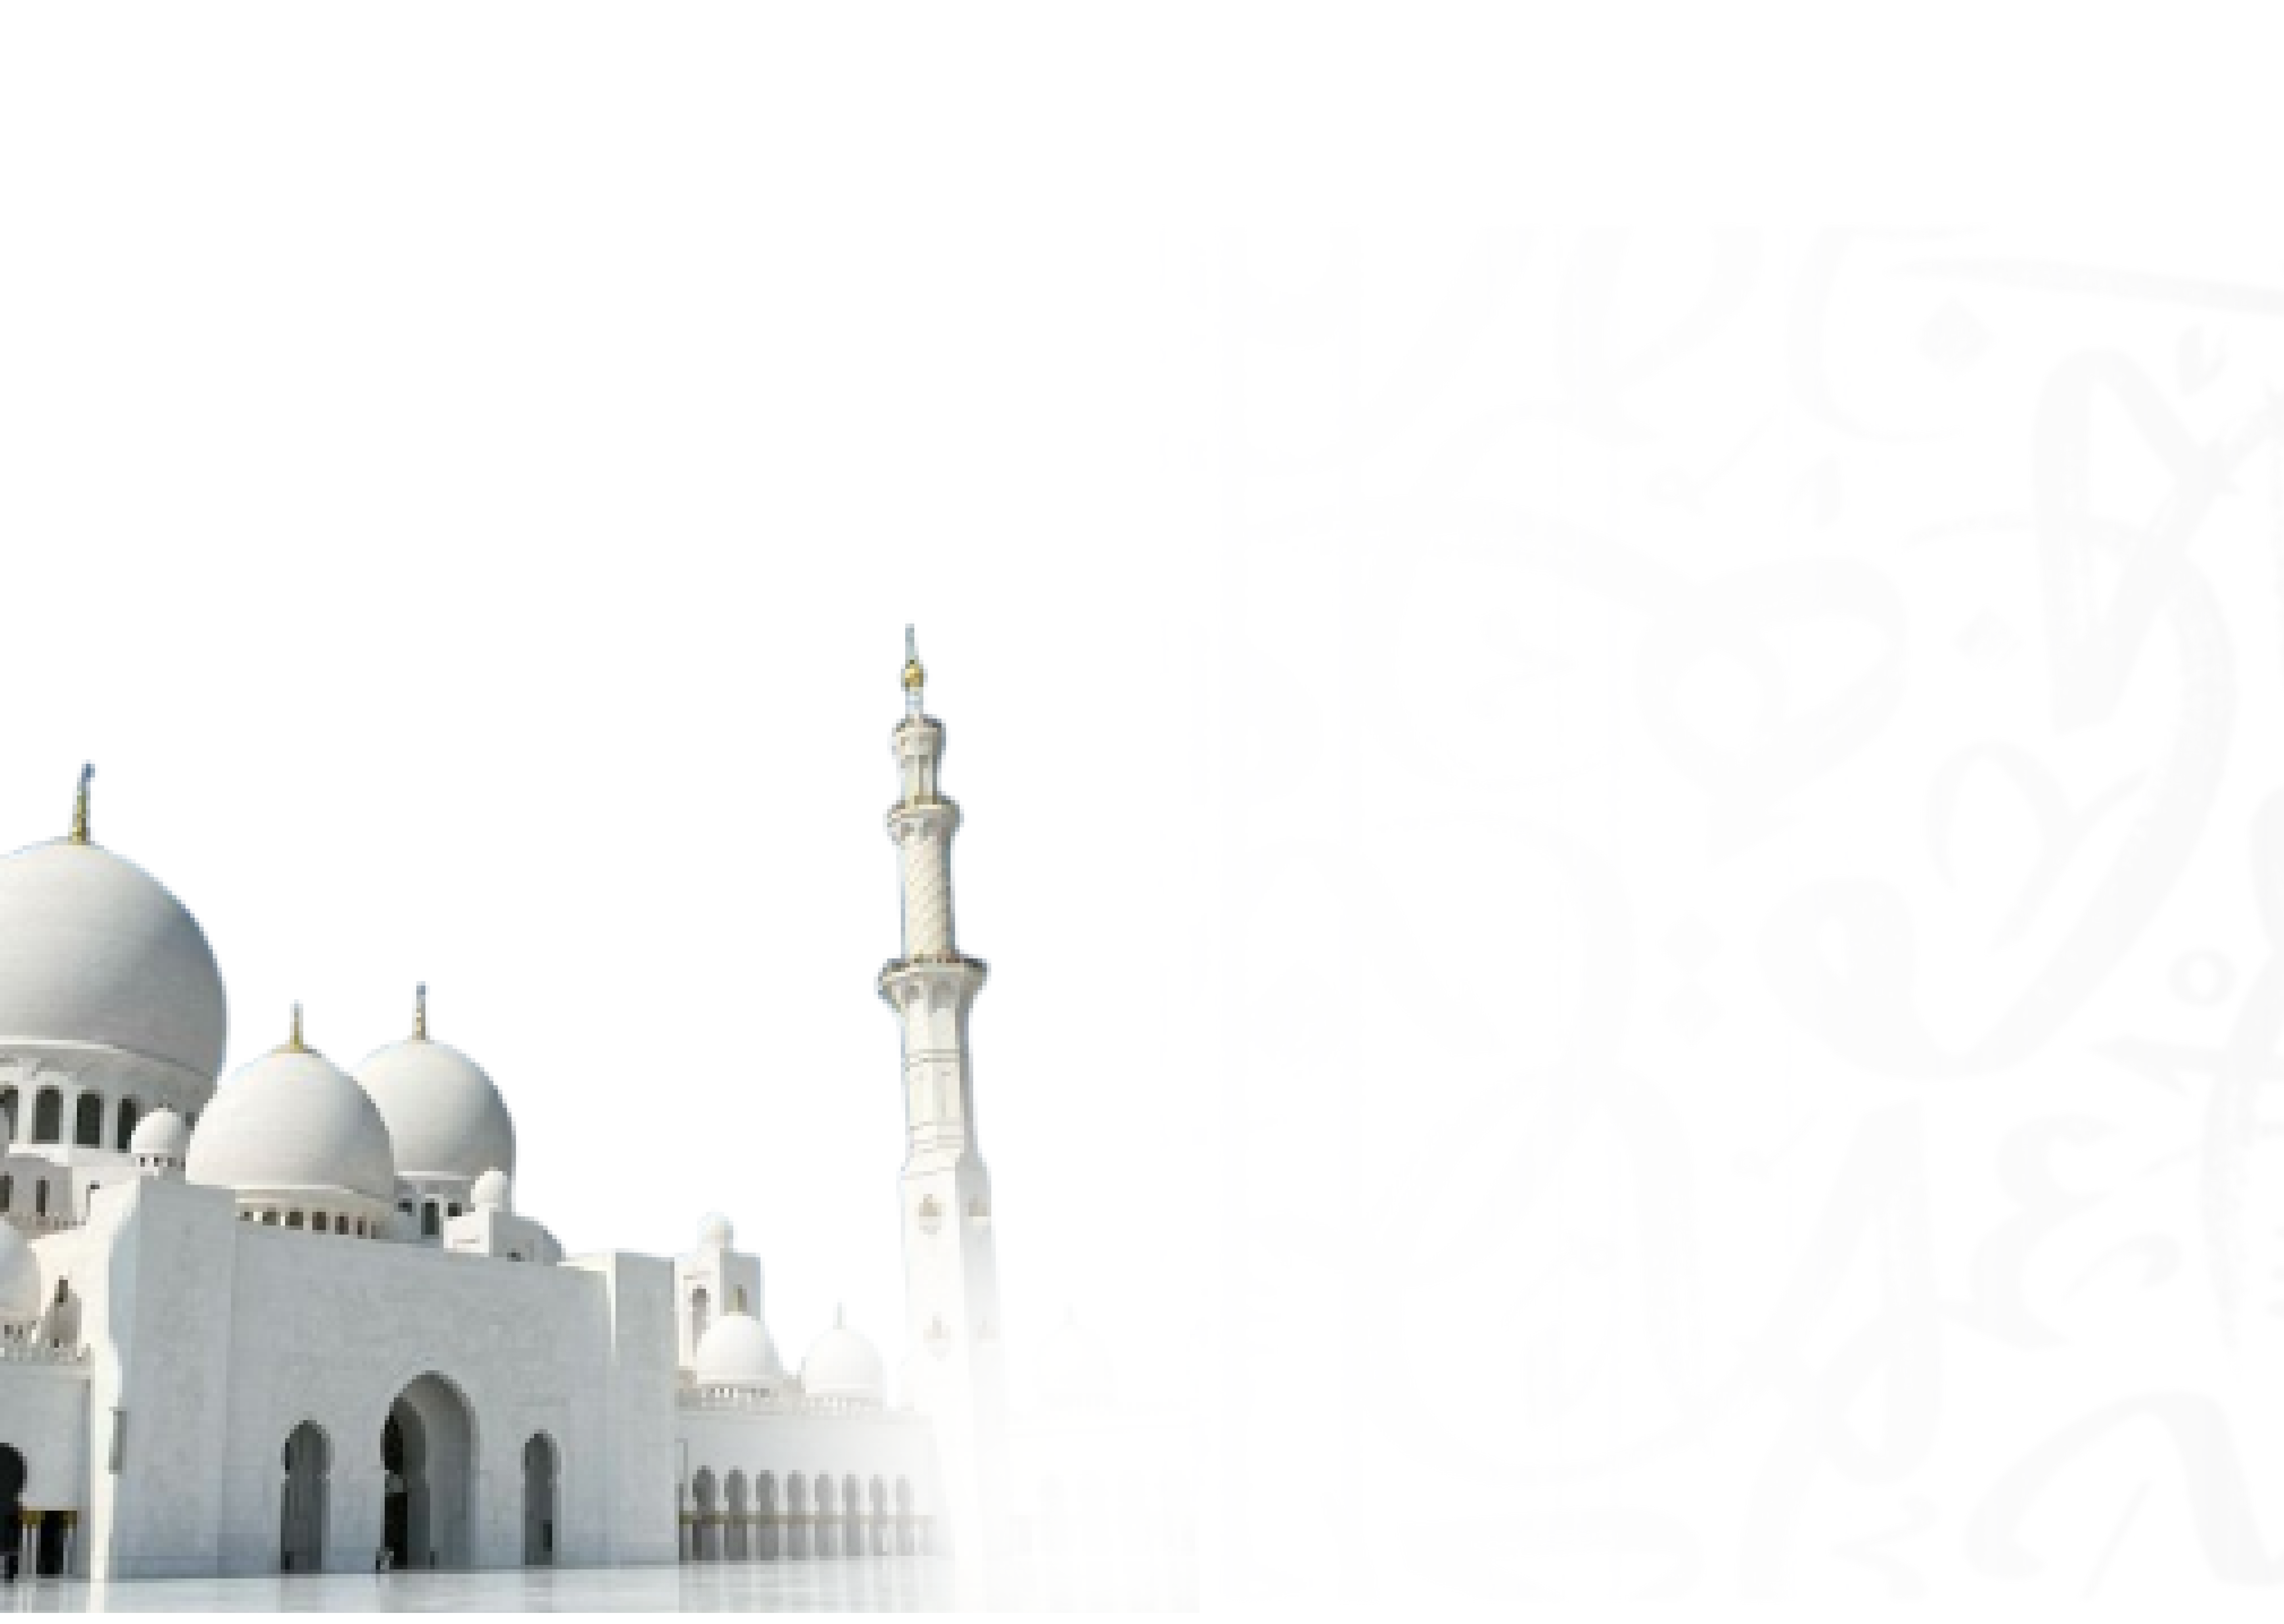
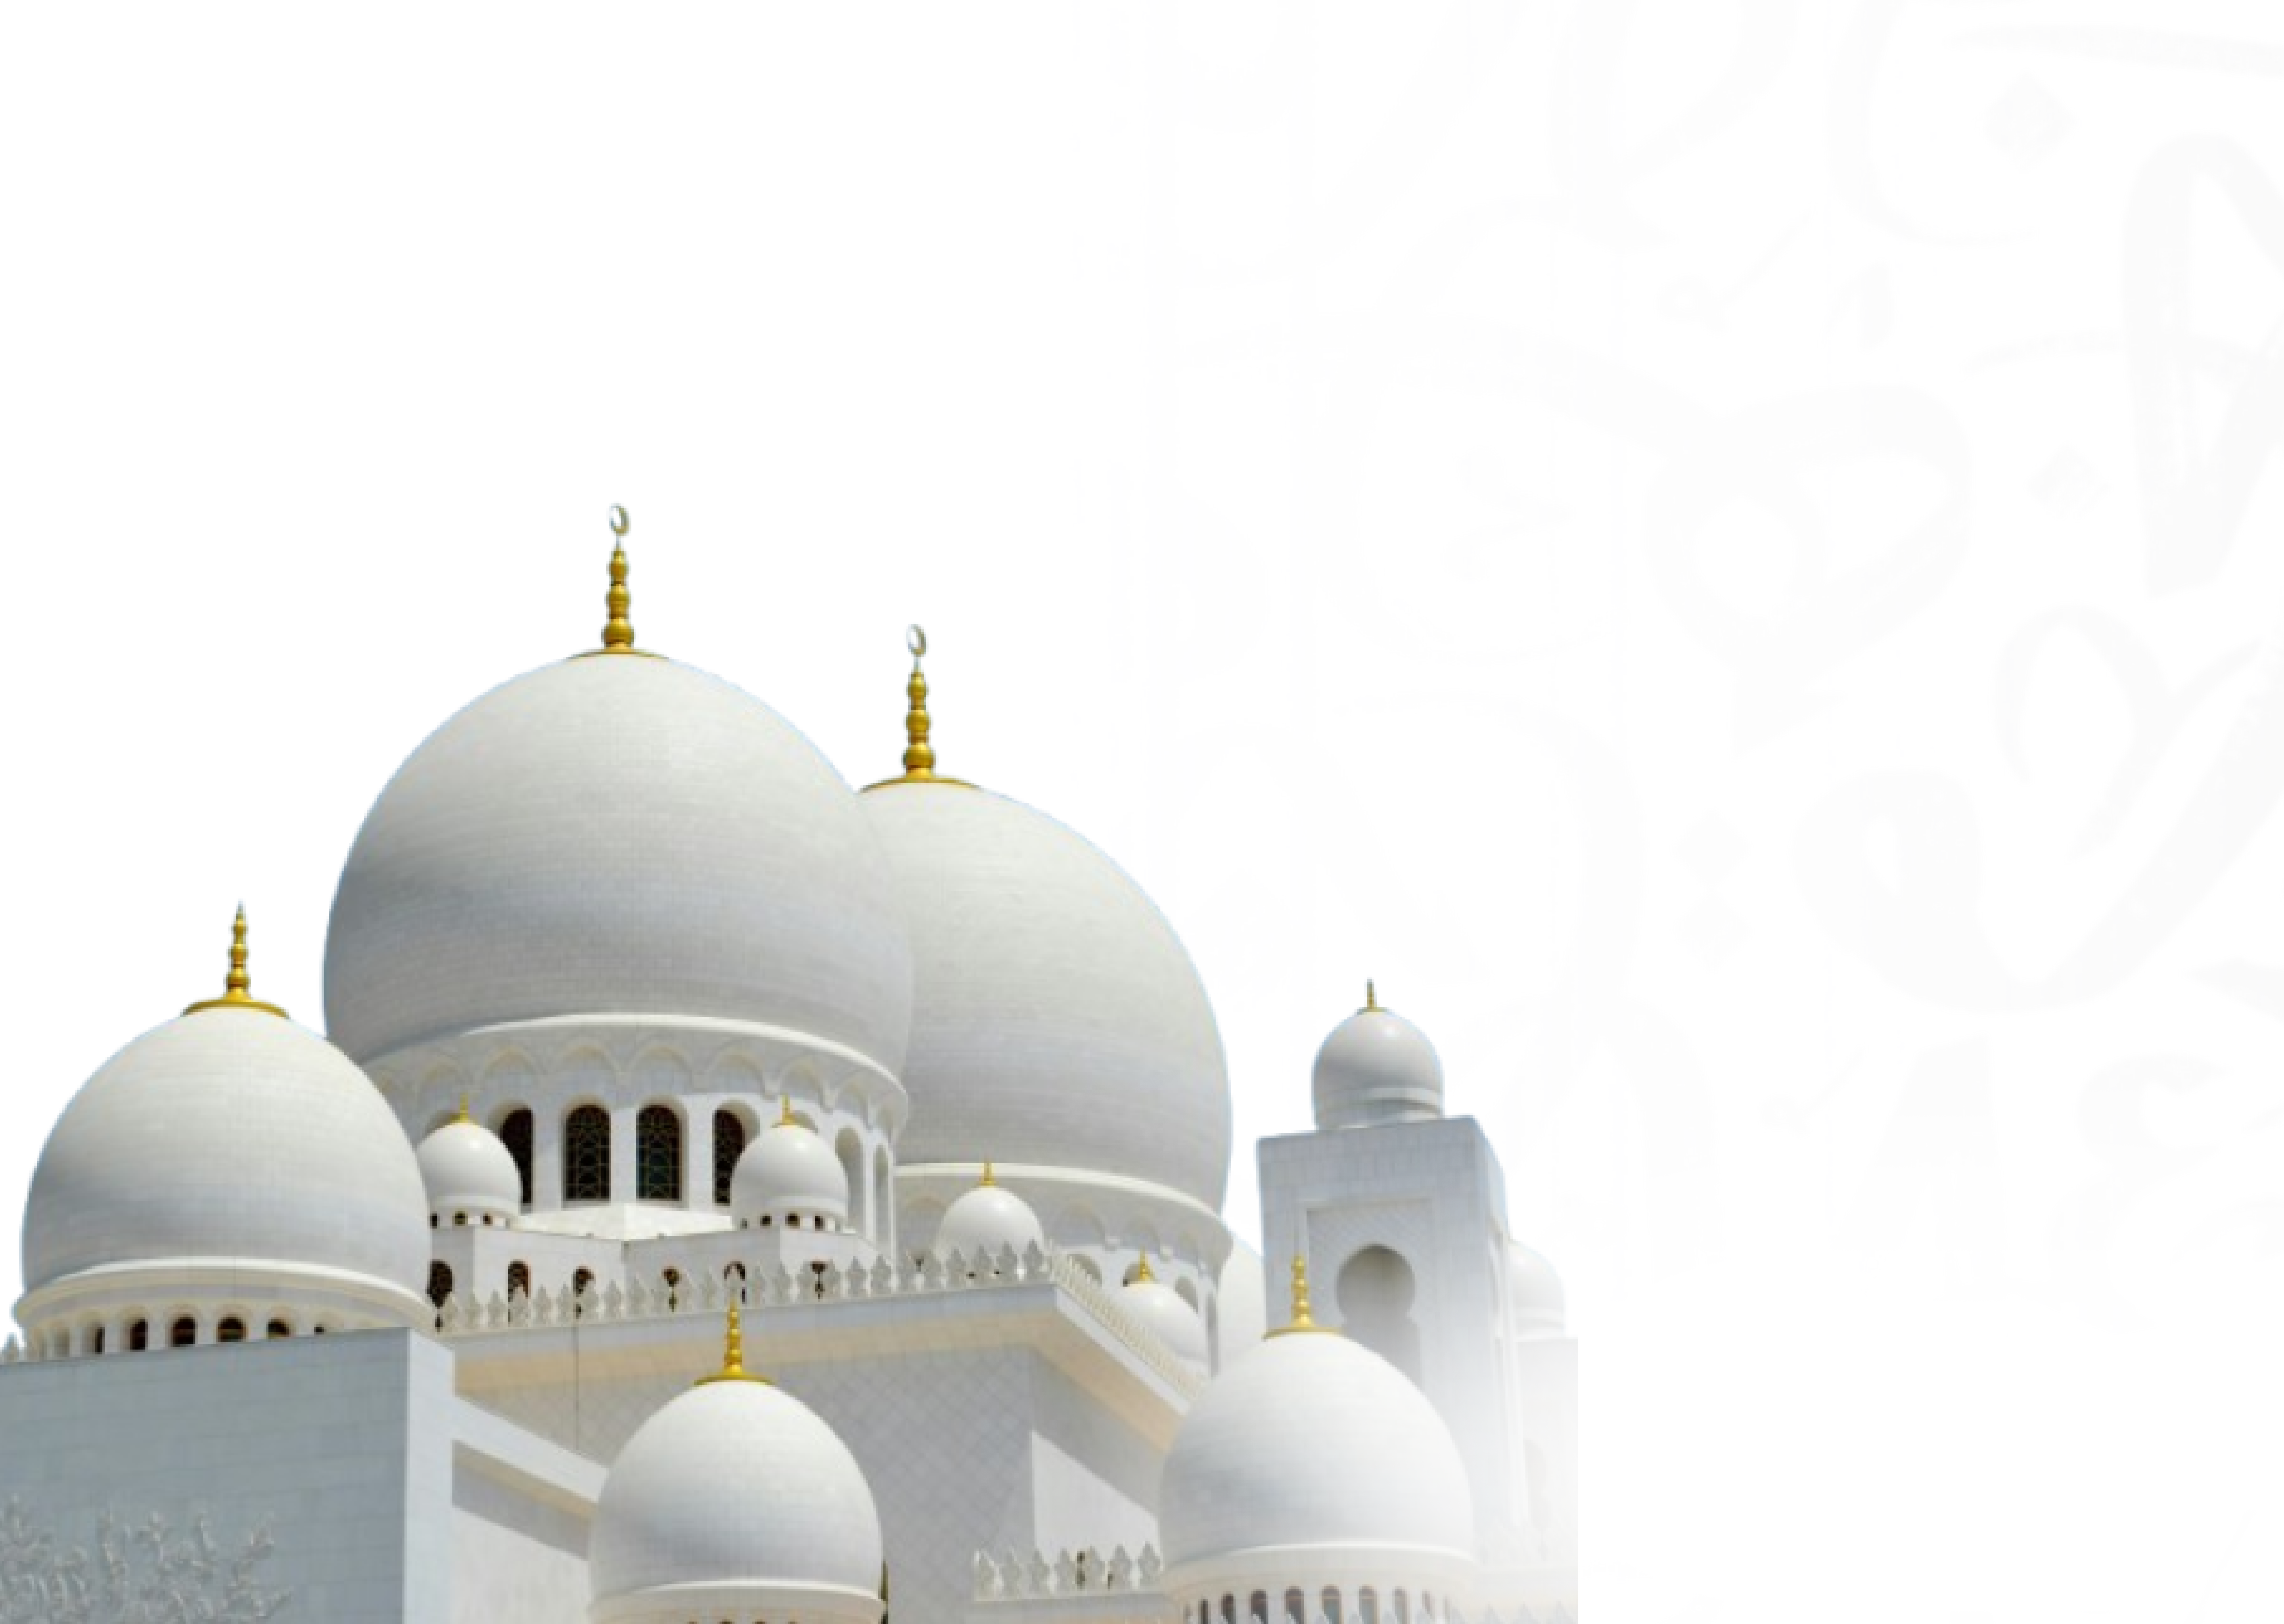
add another background

Changed region(s): [[0.0, 0.3125, 0.6875, 1.0]]

diff --git a/src/css/herosection.css b/src/css/herosection.css
@@ -1,6 +1,6 @@
 .hero {
     width: 100%;
-    height: 80vh;
+    height: 100vh;
     margin: 0 auto;
     display: flex;
     justify-content: flex-start;
@@ -11,14 +11,17 @@
     background-repeat: no-repeat;
     text-align: right;
     direction: rtl;
-    padding: 0 2rem;
+    padding: 0 5.5rem;
     font-family: 'Lama Sans', sans-serif;
+    image-rendering: crisp-edges;
 }
 .hero-section h2 {
     color: #0C8F5C;
+     font-size: 2.5rem;
 }
 .hero-section p{
      color: #000000;
+     font-size: 1.5rem;
 }
 .explore-btn {
     background-color: #0C8F5C;
@@ -26,10 +29,10 @@
     padding: 10px 20px;
     border: none;
     border-radius: 6px;
-    font-size: 1rem;
+    font-size: 1.25rem;
     cursor: pointer;
     margin-top: 20px;
-    clip-path: polygon(20px 0%, 100% 0%, 100% 100%, 0% 100%, 0% 30px);
+    clip-path: polygon(20px 0%, 100% 0%, 100% 100%, 0% 100%, 0% 35px);
     /* box-shadow: 0 10 20px rgba(54, 53, 53, 0.74); */
     /* transform: scale(1.05); */
 }

diff --git a/src/pages/homepage.jsx b/src/pages/homepage.jsx
@@ -3,6 +3,8 @@ import {Herosection} from '../components/herosection'
 import { WhatWeOffer } from '../components/WhatWeOffer';
 import {Footer} from '../components/footer'
 import '../css/homepage.css'
+import ProjectsSlider from '../components/ProjectsSlider';
+import { Whatisirth } from '../components/WhatIsIrth';
 
 
 function Homepage() {
@@ -18,7 +20,12 @@ function Homepage() {
        <section id='map'>
 
        </section>
-       <section id='contact'></section>
+       <section id='contact'>
+
+       </section>
+       <Whatisirth/>
+       <ProjectsSlider/>
+
        <Footer/>
     </div>
   )

diff --git a/src/components/WhatIsIrth.jsx b/src/components/WhatIsIrth.jsx
@@ -2,7 +2,8 @@ import React from "react";
 import '../css/WhatIsIrth.css';
 import { CiSearch } from "react-icons/ci";
 import { GoPeople } from "react-icons/go";
-
+import art from "../assets/arts.png"
+import content from "../assets/trusted-content.png"
 
 
 export const Whatisirth =()=>{
@@ -21,11 +22,11 @@ export const Whatisirth =()=>{
                 <p>تعزيز المشاركة المجتمعية</p>
             </div>
             <div className="feature">
-                <div className="circle-icon"></div>
+                <div className="circle-icon"><img src={art} height={30} width={30}/></div>
                 <p>رقمنة الفنون الشعبية</p>
             </div>
             <div className="feature">
-                <div className="circle-icon"></div>
+                <div className="circle-icon"><img src={content} height={30} width={30}/></div>
                 <p>توفير محتوى موثوق</p>
             </div>
         </div>